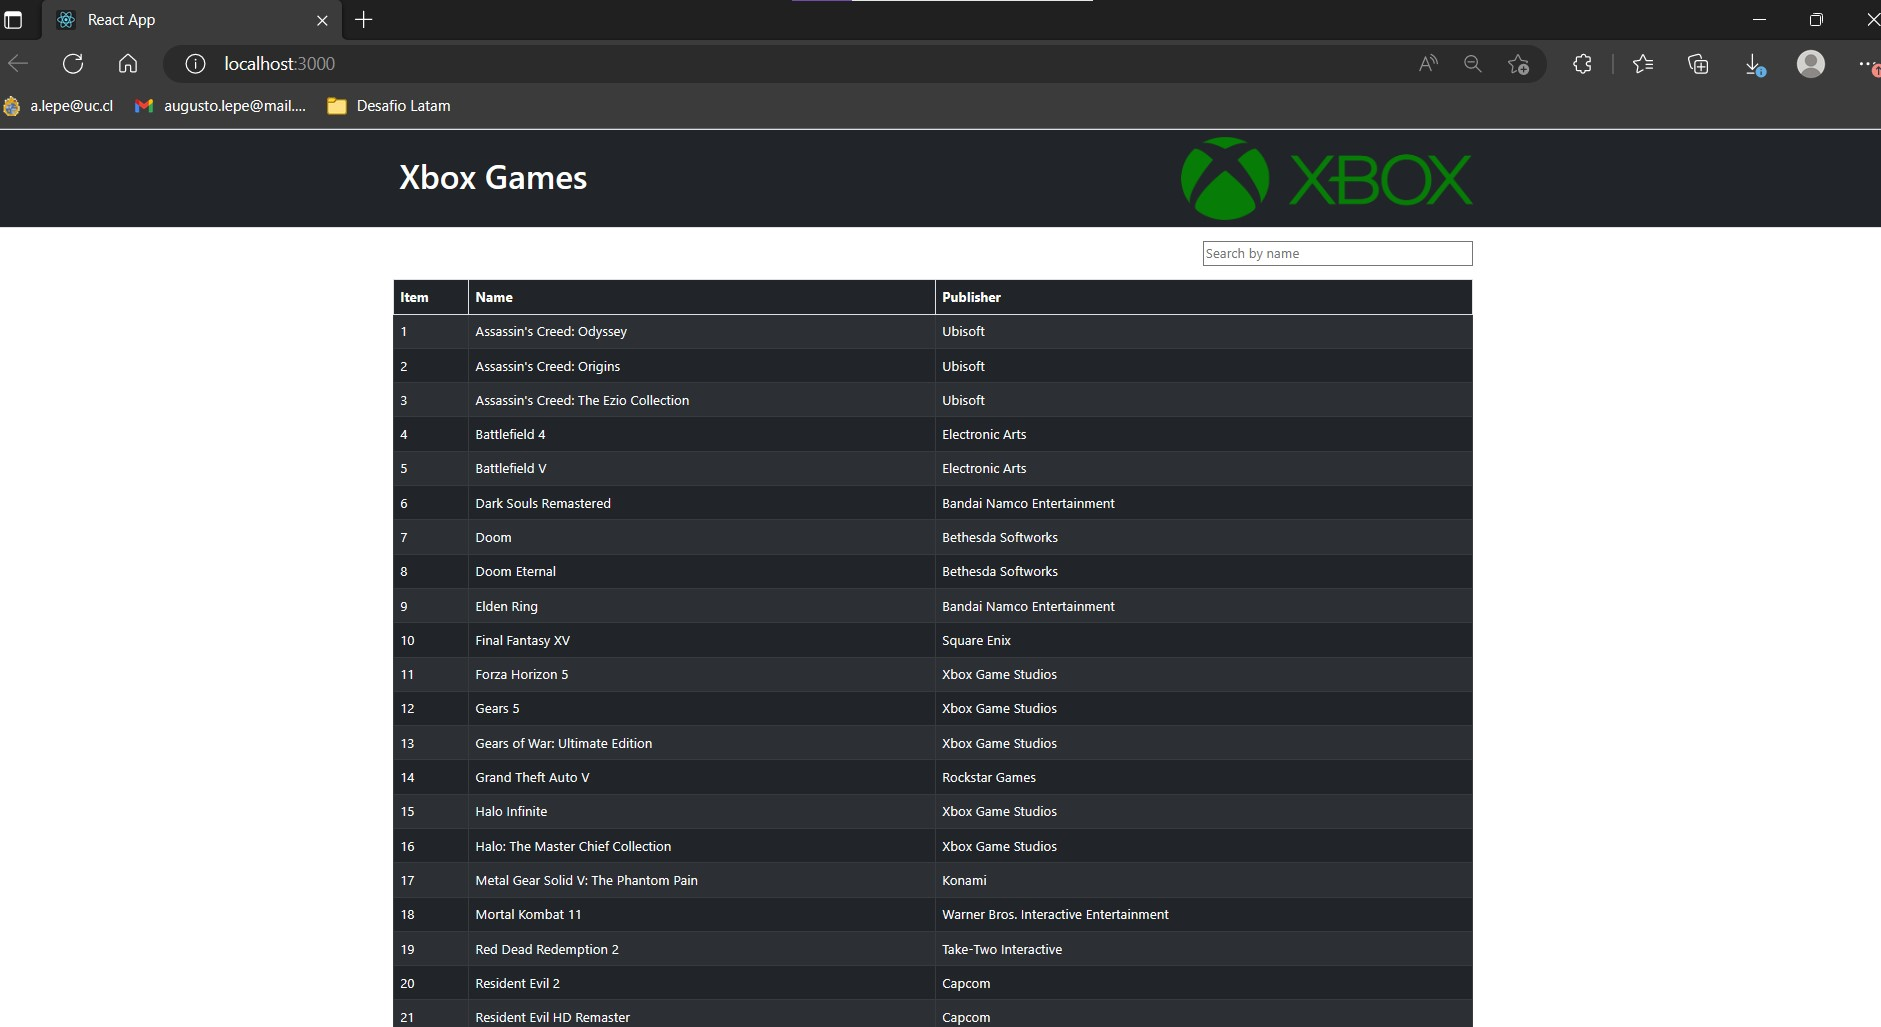
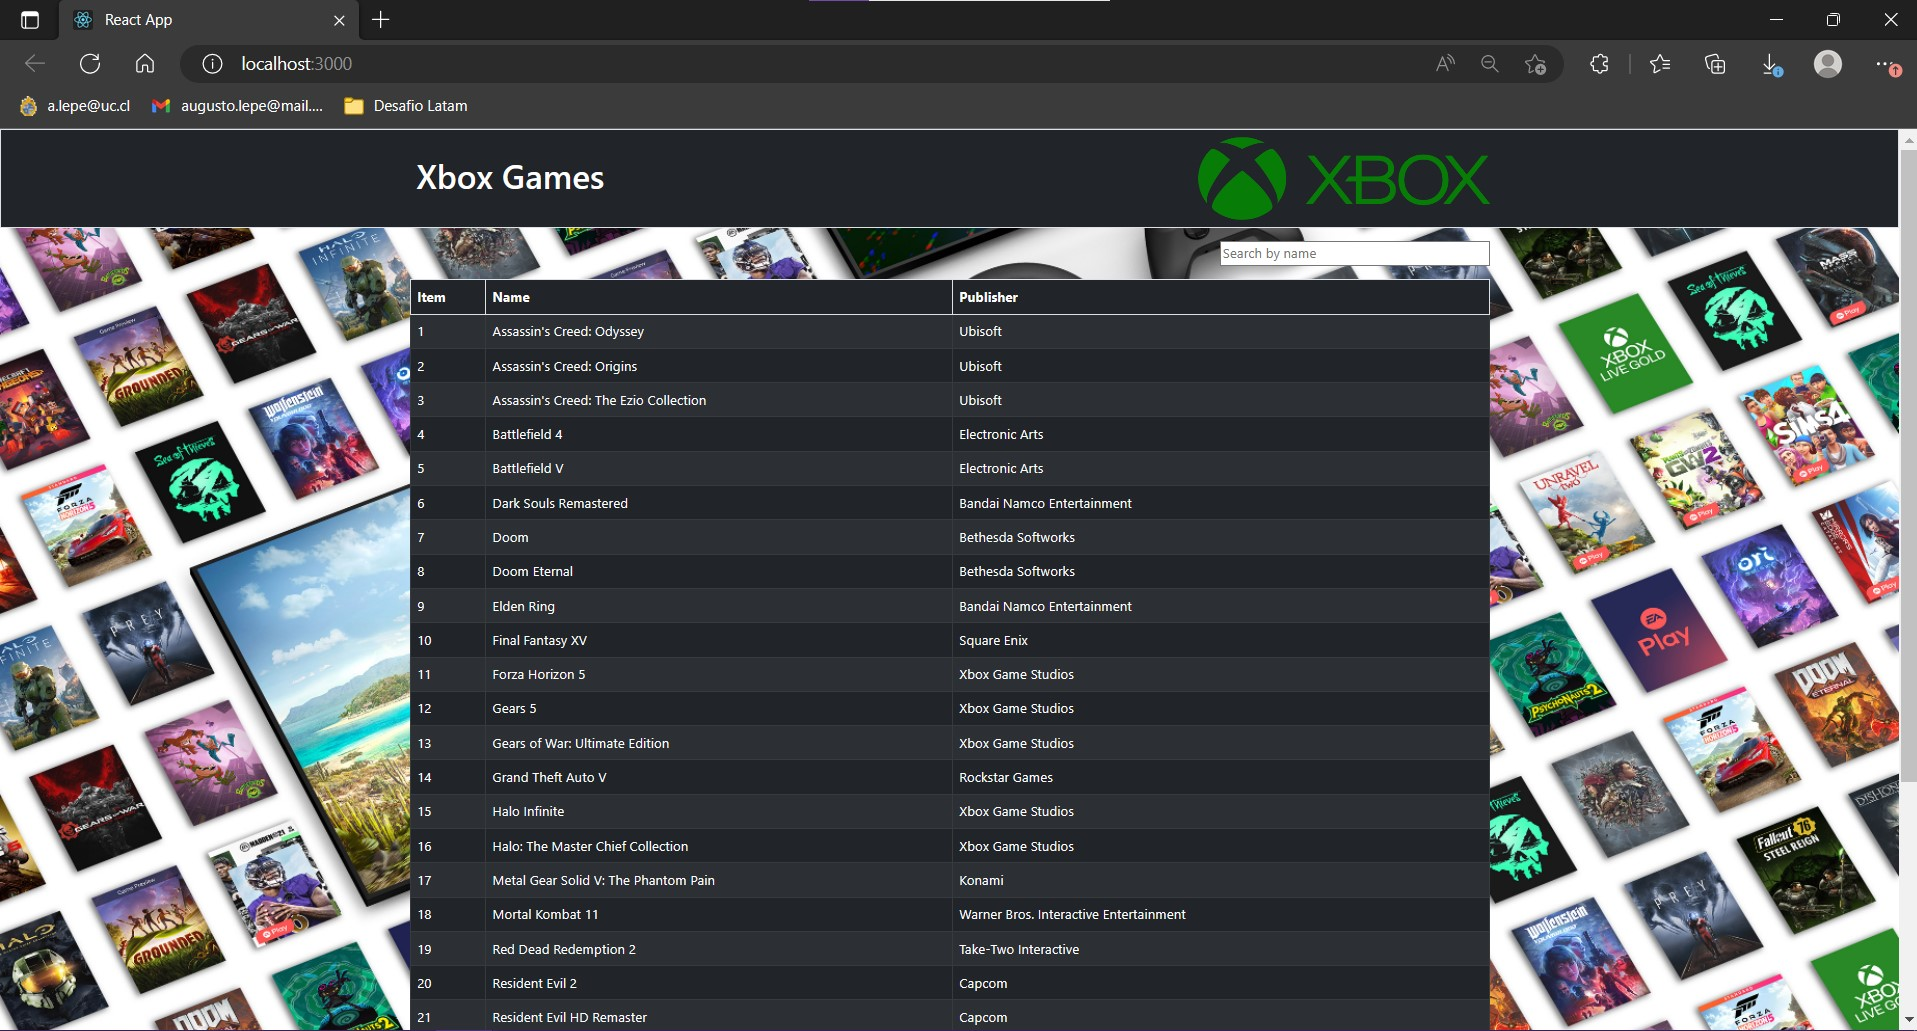
background image update

diff --git a/src/index.css b/src/index.css
@@ -5,6 +5,8 @@ body {
     sans-serif;
   -webkit-font-smoothing: antialiased;
   -moz-osx-font-smoothing: grayscale;
+  background-image: url('https://img.unocero.com/2022/03/image_2022-03-11_19-13-19.png');
+  background-size: contain;
 }
 
 code {
